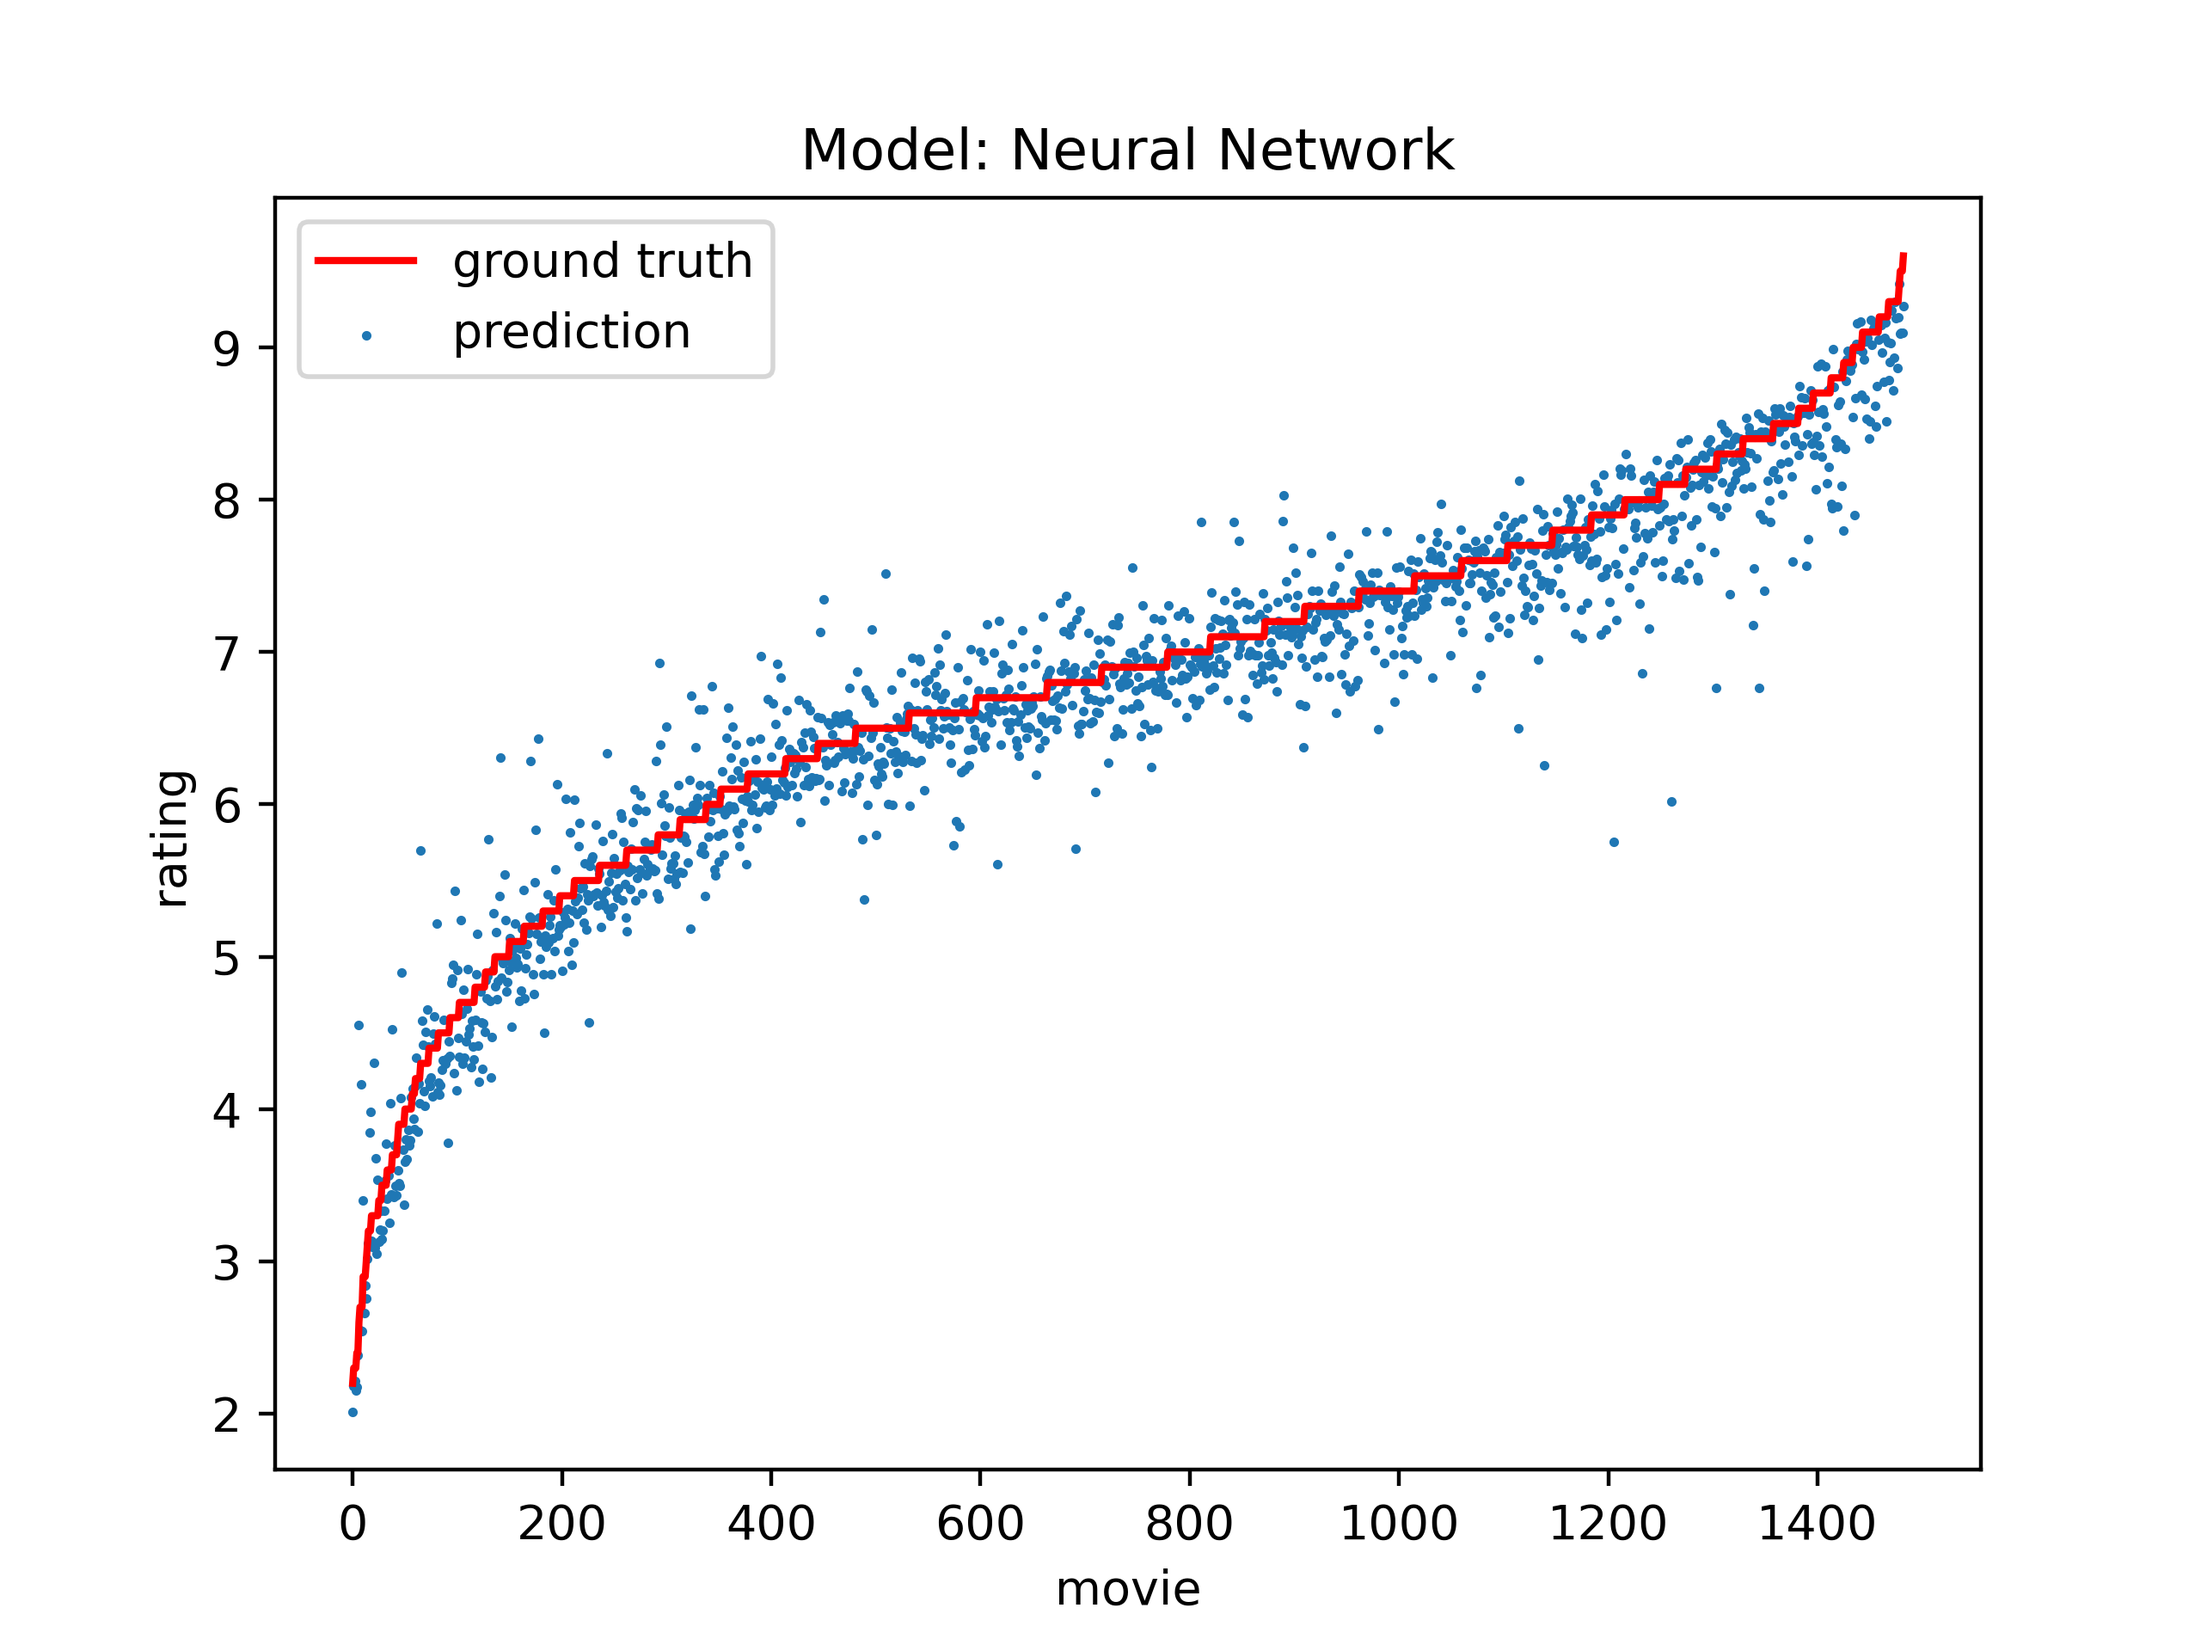
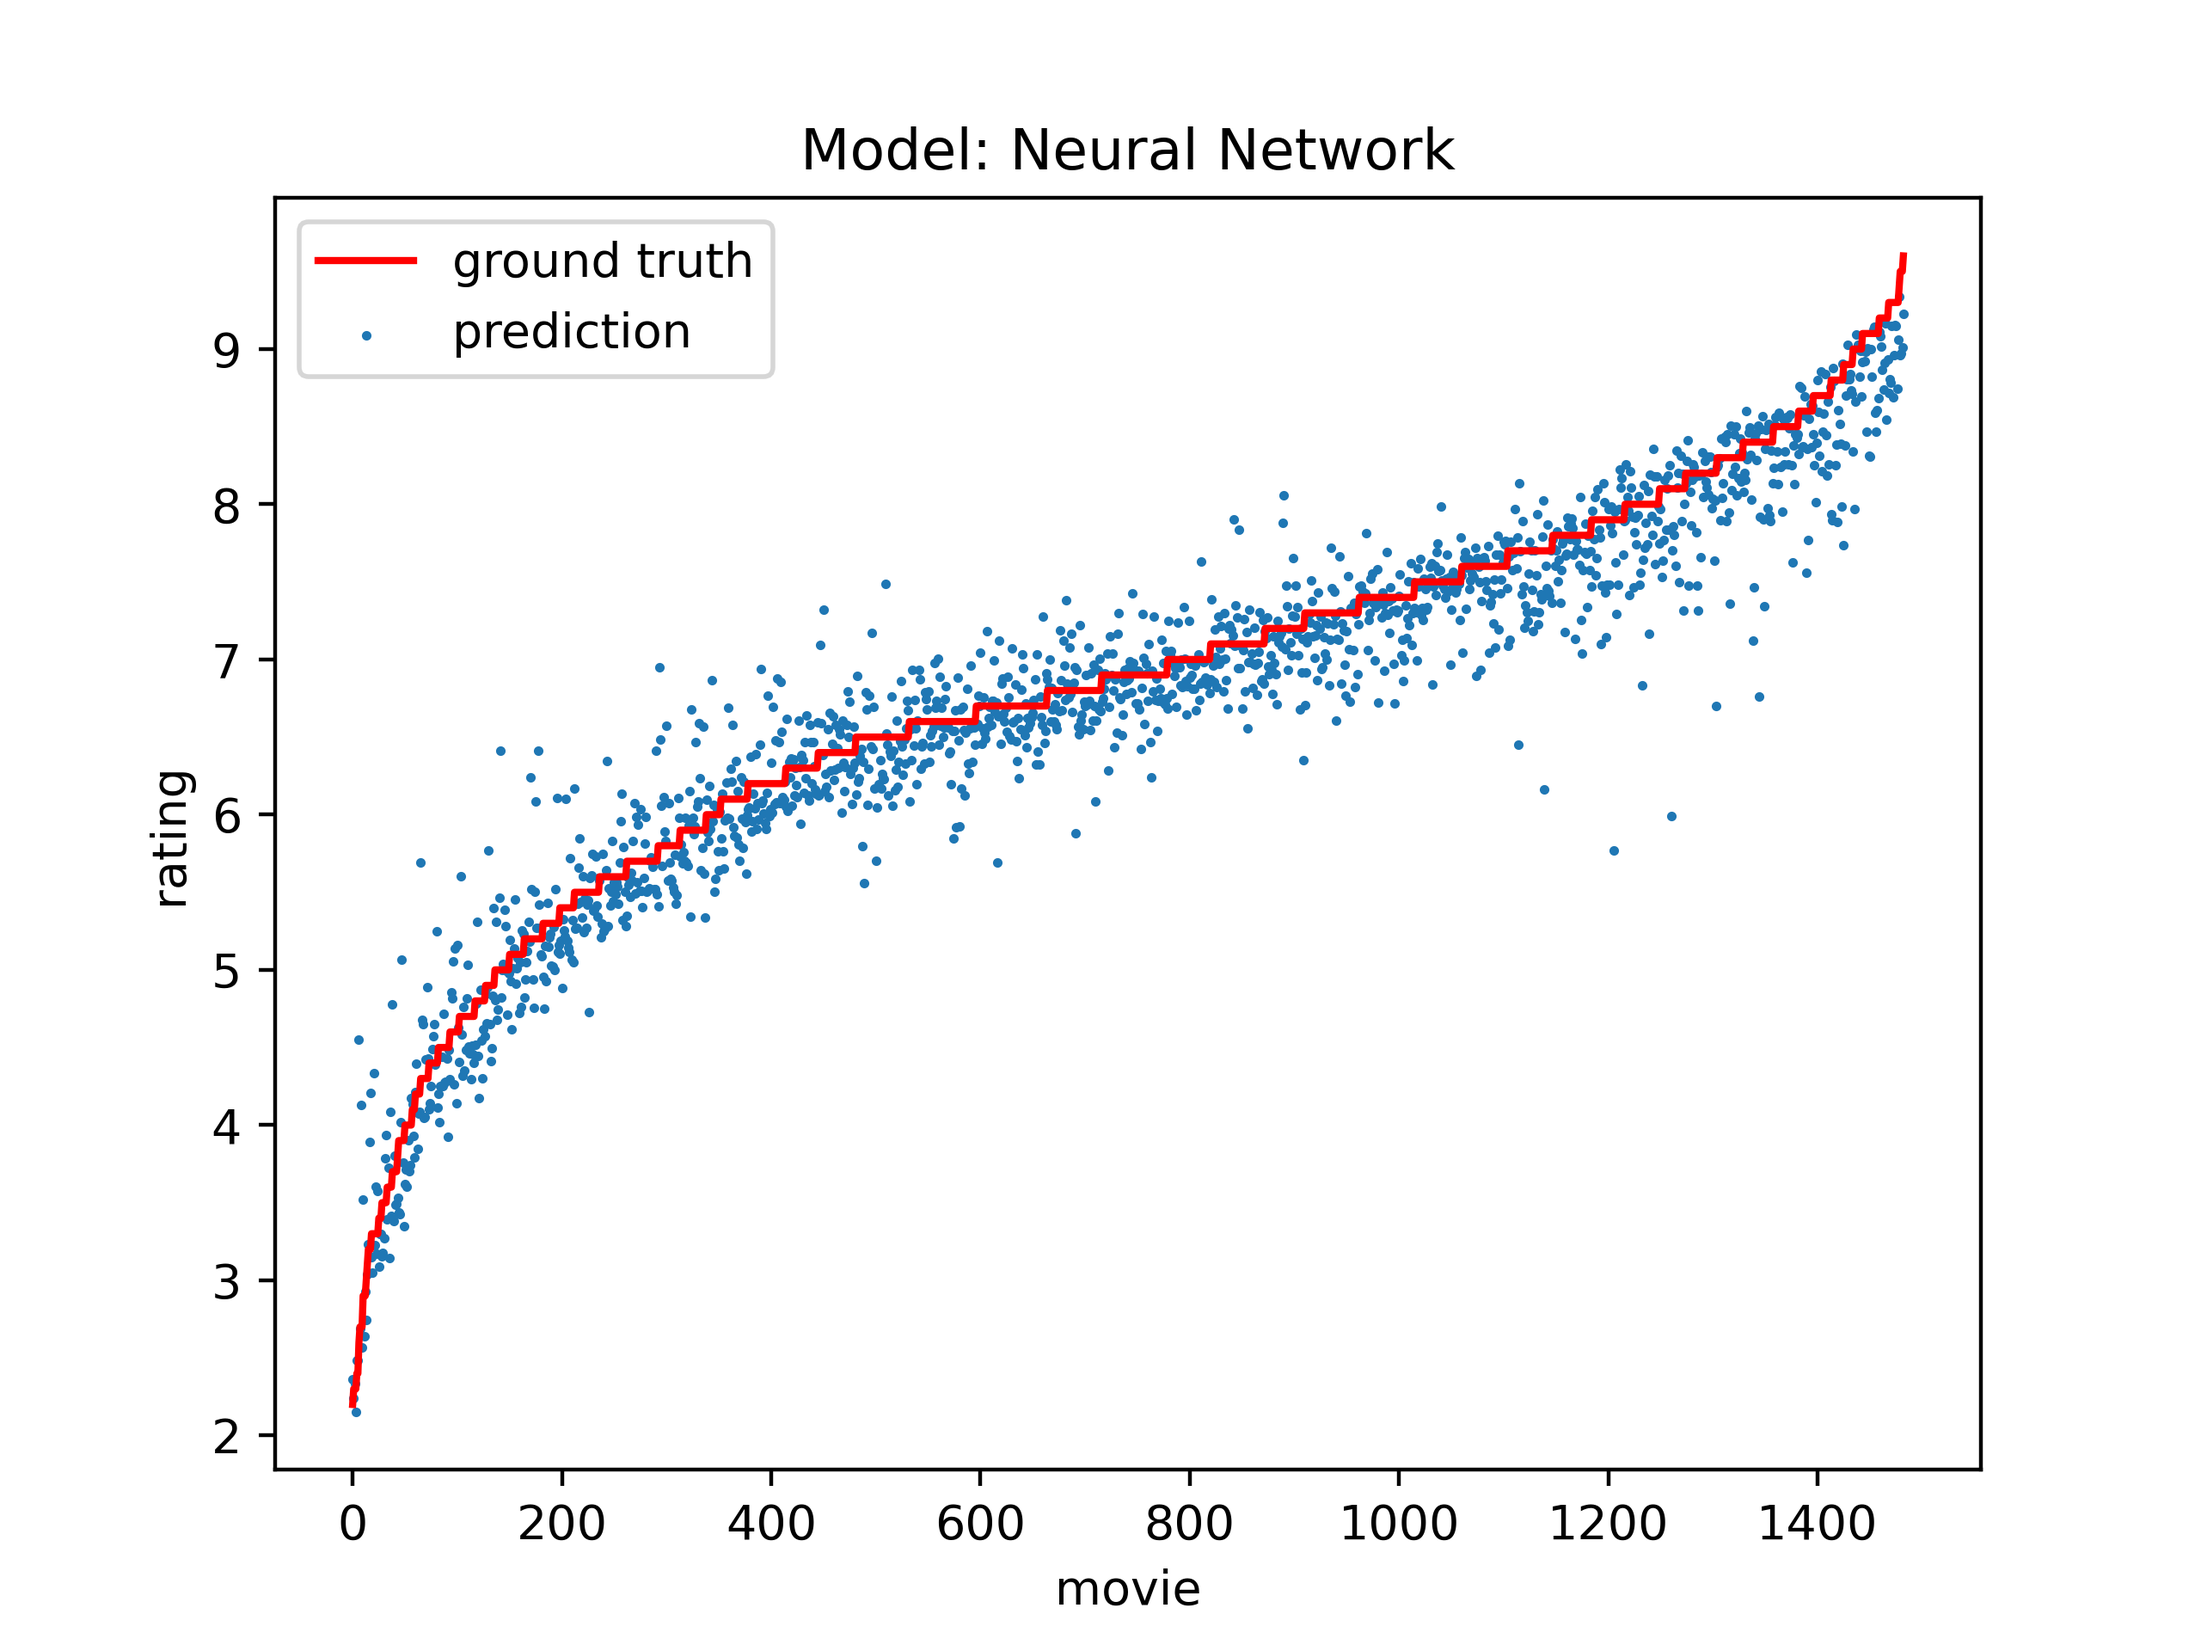
standardized nn code & fig

diff --git a/model/numpy_nn.py b/model/numpy_nn.py
@@ -5,6 +5,7 @@ import pandas as pd
 import torch
 import torch.nn as nn
 import torch.nn.functional as F
+from sklearn.metrics import mean_squared_error
 
 
 # configure work directory
@@ -90,6 +91,11 @@ class Net(nn.Module):
         self.hidden3 = nn.Linear(n_hidden, n_hidden)
         self.hidden4 = nn.Linear(n_hidden, n_hidden)
         self.hidden5 = nn.Linear(n_hidden, n_hidden)
+        self.hidden6 = nn.Linear(n_hidden, n_hidden)
+        self.hidden7 = nn.Linear(n_hidden, n_hidden)
+        self.hidden8 = nn.Linear(n_hidden, n_hidden)
+        self.hidden9 = nn.Linear(n_hidden, n_hidden)
+        self.hidden10 = nn.Linear(n_hidden, n_hidden)
         self.predict = nn.Linear(n_hidden, n_output)
 
     def forward(self, data):
@@ -102,6 +108,16 @@ class Net(nn.Module):
         out = self.hidden4(out)
         out = F.relu(out)
         out = self.hidden5(out)
+        out = F.relu(out)
+        out = self.hidden6(out)
+        out = F.relu(out)
+        out = self.hidden7(out)
+        out = F.relu(out)
+        out = self.hidden8(out)
+        out = F.relu(out)
+        out = self.hidden9(out)
+        out = F.relu(out)
+        out = self.hidden10(out)
         out = F.relu(out)
         out = self.predict(out)
         return out
@@ -133,7 +149,7 @@ y_pred_tensor = torch.from_numpy(y_pred)  # convert to tensor (loss_func() takes
 y_test_tensor = torch.from_numpy(y_test)  # convert to tensor
 print("real test prediction:", y_pred_tensor)
 print("ground truth:", y_test_tensor)
-print("real test mse:", loss_func(y_pred_tensor, y_test_tensor))  # 3.3533
+print("real test mse:", mean_squared_error(y_pred, y_test))  # 0.1115
 
 # plot
 truth = y_test
